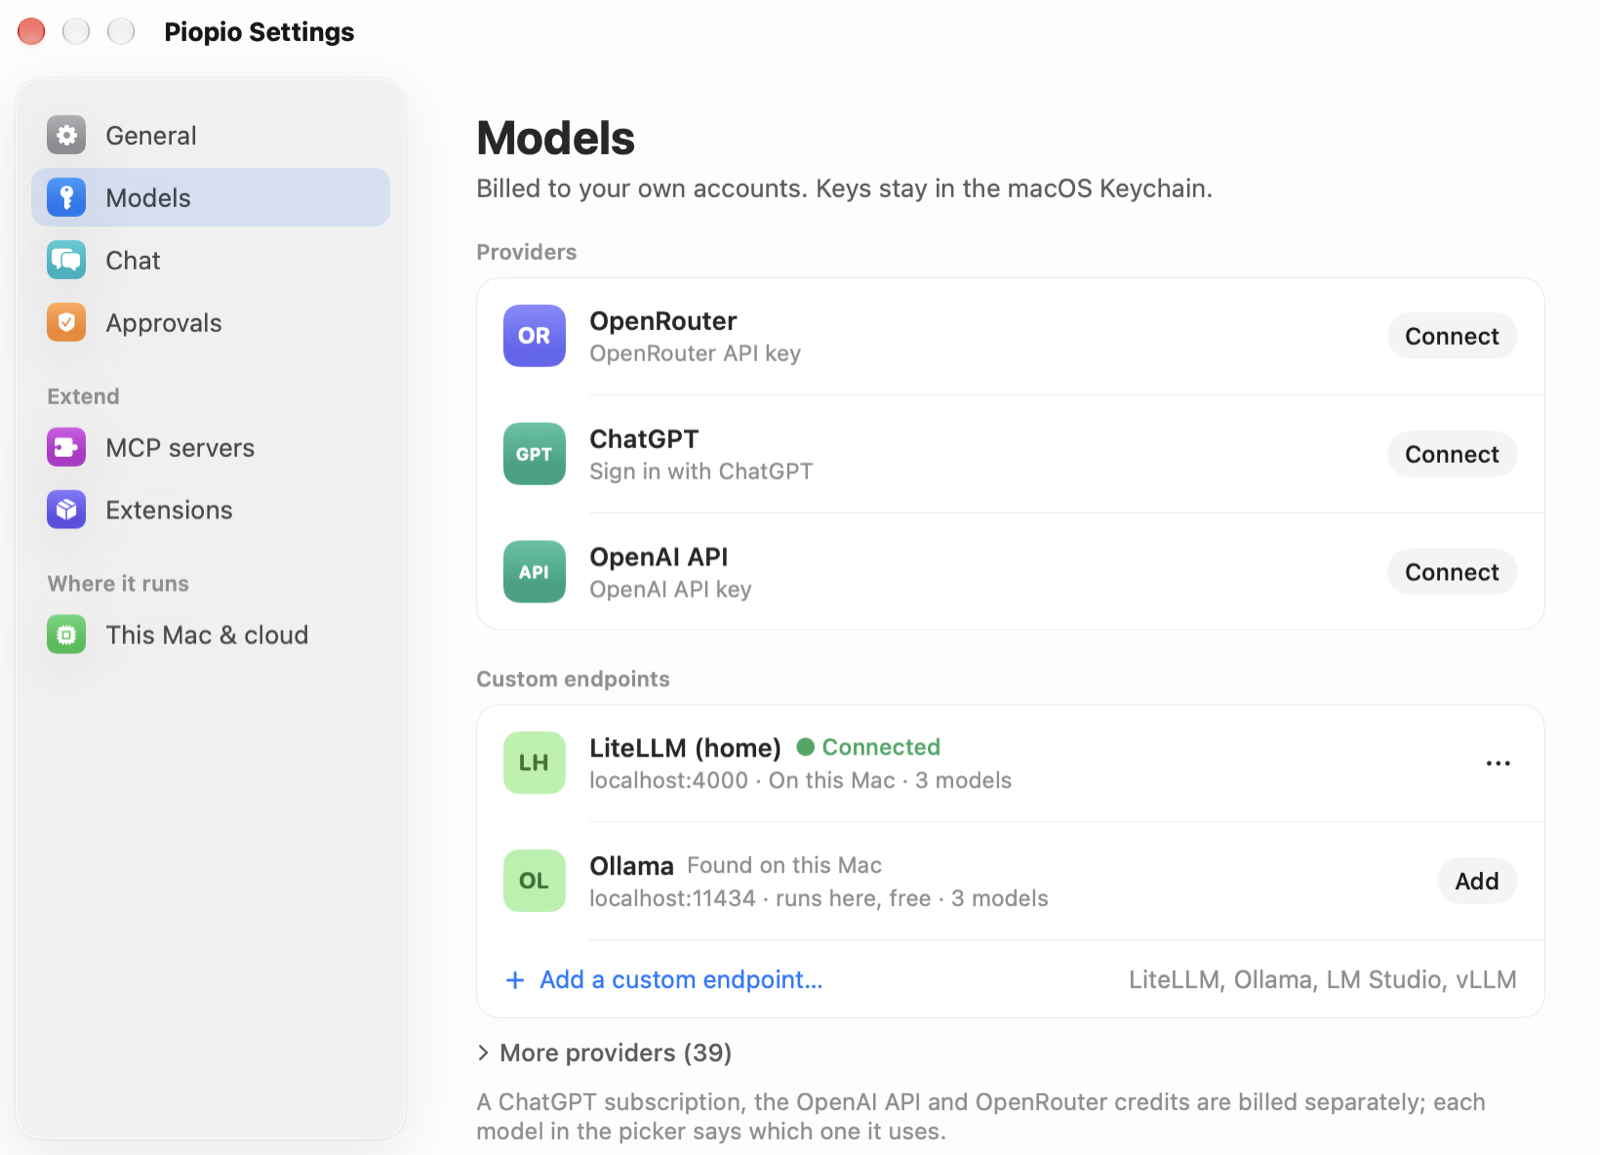
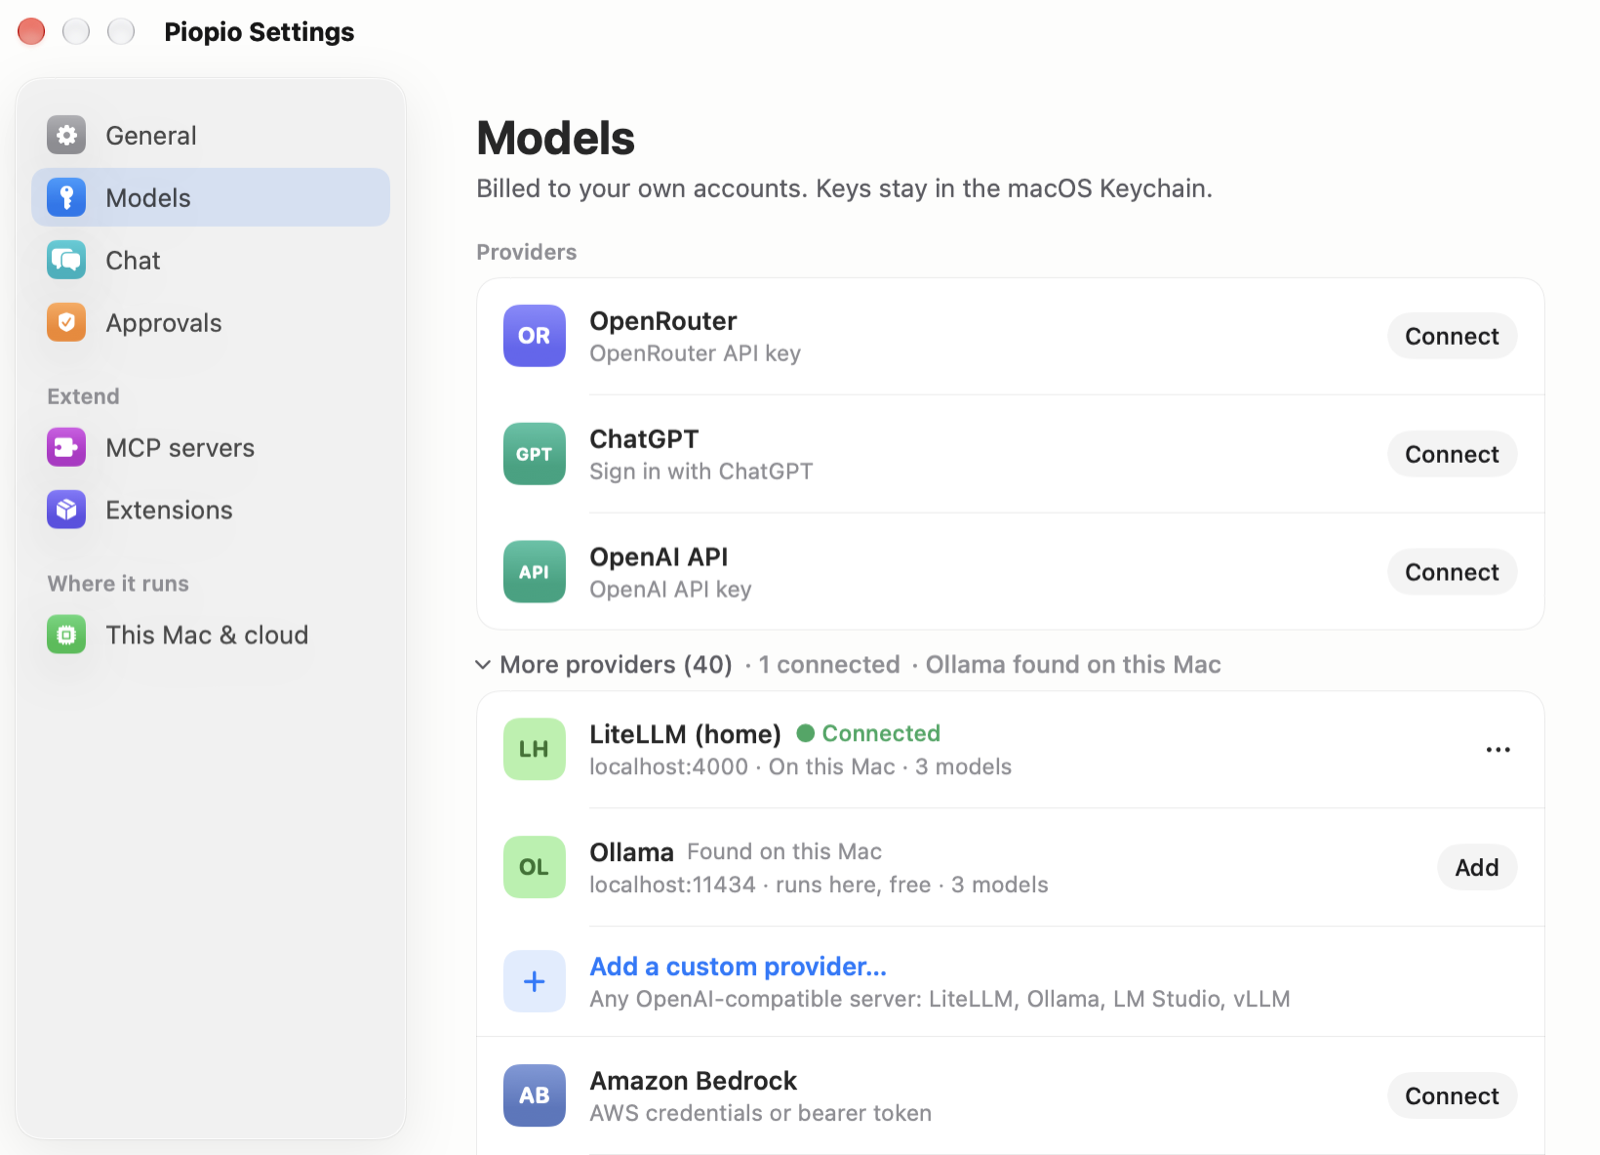
Custom providers live in More providers, with Add a custom provider… there

diff --git a/apps/mac/App/Piopio/ProvidersSettings.swift b/apps/mac/App/Piopio/ProvidersSettings.swift
@@ -72,30 +72,31 @@ struct ProvidersCard: View {
                     Text(engine.client == nil ? "The engine isn't running." : "Loading providers…").font(.system(size: 12.5)).foregroundStyle(Color.dsFg3).frame(maxWidth: .infinity).frame(height: 60)
                 }
             }
-            SectionLabel("Custom endpoints").padding(.top, 18).padding(.bottom, 6)
-            endpointsCard
-            if !others.isEmpty {
-                Button { withAnimation(.easeOut(duration: 0.15)) { showMore.toggle() } } label: {
-                    HStack(spacing: 5) {
-                        Image(systemName: "chevron.right").font(.system(size: 9, weight: .semibold)).rotationEffect(.degrees(showMore ? 90 : 0))
-                        Text("More providers (\(others.count))")
-                        let connected = others.filter(\.isConnected).count
-                        if connected > 0 { Text("· \(connected) connected").foregroundStyle(Color.dsFg3) }
-                    }
-                    .font(.system(size: 12.5, weight: .medium)).foregroundStyle(Color.dsFg2)
-                    .contentShape(Rectangle())
+            // Everything else, custom providers included: the ones you added and servers found on this Mac first,
+            // then "Add a custom provider…", then pi's other providers (connected ones first).
+            Button { withAnimation(.easeOut(duration: 0.15)) { showMore.toggle() } } label: {
+                HStack(spacing: 5) {
+                    Image(systemName: "chevron.right").font(.system(size: 9, weight: .semibold)).rotationEffect(.degrees(showMore ? 90 : 0))
+                    Text("More providers (\(others.count + endpoints.count))")
+                    let connected = others.filter(\.isConnected).count + endpoints.count
+                    if connected > 0 { Text("· \(connected) connected").foregroundStyle(Color.dsFg3) }
+                    if !detected.isEmpty { Text("· \(detected.map(\.name).joined(separator: ", ")) found on this Mac").foregroundStyle(Color.dsFg3) }
                 }
-                .buttonStyle(.plain)
-                .padding(.top, 10)
-                if showMore {
-                    ListCard {
-                        ForEach(Array(others.enumerated()), id: \.element.id) { i, p in
-                            ProviderRow(engine: engine, provider: p, disconnect: { disconnecting = p })
-                            if i < others.count - 1 { Rectangle().fill(Color.dsLine).frame(height: 0.5).padding(.leading, 58) }
-                        }
+                .font(.system(size: 12.5, weight: .medium)).foregroundStyle(Color.dsFg2)
+                .contentShape(Rectangle())
+            }
+            .buttonStyle(.plain)
+            .padding(.top, 10)
+            if showMore {
+                ListCard {
+                    customRows
+                    let sorted = others.sorted { $0.isConnected && !$1.isConnected }
+                    ForEach(Array(sorted.enumerated()), id: \.element.id) { i, p in
+                        ProviderRow(engine: engine, provider: p, disconnect: { disconnecting = p })
+                        if i < sorted.count - 1 { Rectangle().fill(Color.dsLine).frame(height: 0.5).padding(.leading, 58) }
                     }
-                    .padding(.top, 6)
                 }
+                .padding(.top, 6)
             }
             Text("A ChatGPT subscription, the OpenAI API and OpenRouter credits are billed separately; each model in the picker says which one it uses.")
                 .font(.system(size: 12)).foregroundStyle(Color.dsFg3).padding(.top, 10).fixedSize(horizontal: false, vertical: true)
@@ -108,14 +109,13 @@ struct ProvidersCard: View {
         } message: { p in
             Text(disconnectMessage(p))
         }
-        .onAppear { if others.contains(where: \.isConnected) { showMore = true } }
+        .onAppear { if !endpoints.isEmpty || others.contains(where: \.isConnected) { showMore = true } }
         .task(id: endpoints.count) { detected = await engine.detectEndpoints() }
         .sheet(item: $editing) { draft in EndpointSheet(engine: engine, draft: draft) }
     }
 
-    /// Servers added by address, the ones found running on this Mac, and "Add a custom endpoint…" (sketch 1).
-    private var endpointsCard: some View {
-        ListCard {
+    /// Custom providers you added, servers found running on this Mac, and "Add a custom provider…".
+    @ViewBuilder private var customRows: some View {
             ForEach(endpoints) { p in
                 EndpointRow(engine: engine, provider: p, edit: { editing = EndpointDraft(provider: p) }, remove: { disconnecting = p })
                 Rectangle().fill(Color.dsLine).frame(height: 0.5).padding(.leading, 58)
@@ -149,20 +149,22 @@ struct ProvidersCard: View {
                 Rectangle().fill(Color.dsLine).frame(height: 0.5).padding(.leading, 58)
             }
             Button { editing = EndpointDraft() } label: {
-                HStack(spacing: 6) {
-                    Image(systemName: "plus").font(.system(size: 11, weight: .semibold))
-                    Text("Add a custom endpoint…")
+                HStack(spacing: 12) {
+                    Image(systemName: "plus").font(.system(size: 13, weight: .semibold)).foregroundStyle(Color.accentColor)
+                        .frame(width: 32, height: 32)
+                        .background(Color.dsAccentSoft, in: RoundedRectangle(cornerRadius: 8, style: .continuous))
+                    VStack(alignment: .leading, spacing: 2) {
+                        Text("Add a custom provider…").font(.system(size: 13, weight: .semibold)).foregroundStyle(Color.accentColor)
+                        Text("Any OpenAI-compatible server: LiteLLM, Ollama, LM Studio, vLLM").font(.system(size: 11.5)).foregroundStyle(Color.dsFg3)
+                    }
                     Spacer()
-                    Text("LiteLLM, Ollama, LM Studio, vLLM").foregroundStyle(Color.dsFg3)
                 }
-                .font(.system(size: 12.5))
-                .foregroundStyle(Color.accentColor)
                 .padding(.horizontal, 14)
-                .frame(height: 40)
+                .frame(minHeight: 56)
                 .contentShape(Rectangle())
             }
             .buttonStyle(.plain)
-        }
+            if !others.isEmpty { Rectangle().fill(Color.dsLine).frame(height: 0.5) }
     }
 
     static func host(_ url: String) -> String {
@@ -512,7 +514,7 @@ struct EndpointSheet: View {
     var body: some View {
         VStack(alignment: .leading, spacing: 12) {
             VStack(alignment: .leading, spacing: 4) {
-                Text(draft.providerId == nil ? "Add a custom endpoint" : "Edit \(draft.name)").font(.system(size: 17, weight: .bold))
+                Text(draft.providerId == nil ? "Add a custom provider" : "Edit \(draft.name)").font(.system(size: 17, weight: .bold))
                 Text("Any server that speaks the OpenAI API: LiteLLM, Ollama, LM Studio, vLLM. Its models show up in the model picker.")
                     .font(.system(size: 12.5)).foregroundStyle(Color.dsFg2).fixedSize(horizontal: false, vertical: true)
             }
@@ -530,7 +532,7 @@ struct EndpointSheet: View {
                 Button("Check") { runCheck() }.buttonStyle(PillStyle()).disabled(draft.baseUrl.trimmingCharacters(in: .whitespaces).isEmpty || busy)
                 Spacer()
                 Button("Cancel") { dismiss() }.buttonStyle(PillStyle()).keyboardShortcut(.cancelAction)
-                Button(draft.providerId == nil ? "Add endpoint" : "Save") { save() }
+                Button(draft.providerId == nil ? "Add provider" : "Save") { save() }
                     .buttonStyle(PillStyle(kind: .primary)).keyboardShortcut(.defaultAction)
                     .disabled(draft.baseUrl.trimmingCharacters(in: .whitespaces).isEmpty || busy)
             }

diff --git a/docs/spec/10-model-providers.md b/docs/spec/10-model-providers.md
@@ -183,7 +183,7 @@ After implementing, report: what changed; which pi capabilities were reused; bac
 - Tests: engine (key login through the sheet's prompt, Keychain write, both providers listed, switching a conversation's provider, restart, logout of one provider, sign-in steps and cancel, refreshed tokens written back) and Swift decoding.
 
 **Custom endpoints (P1, built 2026-10-22)**
-- Any OpenAI-compatible server — LiteLLM, Ollama, LM Studio, vLLM — added by name, address and an optional key in Settings › Models › Custom endpoints. The sheet asks `GET <address>/models` (adding `/v1` when needed) and shows what it found before saving; errors say whether the server is down, wants a key, or isn't a model server.
+- Any OpenAI-compatible server — LiteLLM, Ollama, LM Studio, vLLM — added by name, address and an optional key with "Add a custom provider…" inside Settings › Models › More providers, where the ones you added and servers found on this Mac are listed first (the section opens by itself once you have one). The sheet asks `GET <address>/models` (adding `/v1` when needed) and shows what it found before saving; errors say whether the server is down, wants a key, or isn't a model server.
 - Ollama (port 11434) and LM Studio (port 1234) running on this Mac are offered with one-click Add.
 - Engine: `endpoints.ts` keeps the list in `endpoints.json` (no secrets) and registers each as a pi provider (`openai-completions`); keys are Keychain credentials like any provider's. Methods `endpoints.check`, `endpoints.save` (add or update; no key keeps the stored one), `endpoints.remove`, `endpoints.detect`.
 - Picker: one section per endpoint ("LiteLLM (home) · On this Mac" / "Your server"), price tier "Yours", context "unknown" when the server doesn't report it. Endpoint models are text-only until we know more (images aren't sent to them).
